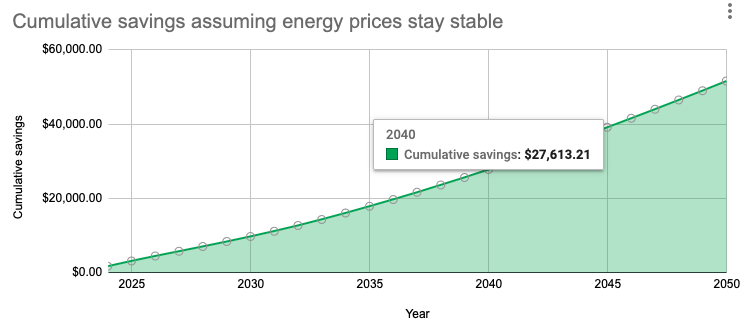
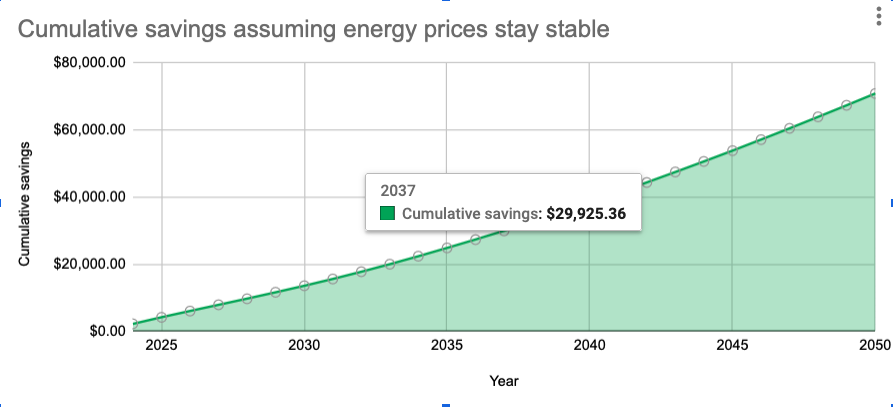
update blog post with all-electric heat rate

diff --git a/_posts/blog/2024-06-29-electrifying-our-old-oak-park-home-one-year-in.md b/_posts/blog/2024-06-29-electrifying-our-old-oak-park-home-one-year-in.md
@@ -17,18 +17,22 @@ featured: false
 
 _This is Part 4 of my series Electrifying Our Old Oak Park Home. [Read the rest here](/electrification/)._
 
+**Update - April 2025:** About a year after writing this, I learned about ComEd's [all-electric heat distribution rates](https://opcan.org/updates/comed-now-offers-50-rates-if-you-have-electric-heating), which lower our electricity bills by about 50%. With this factored in, our payback period is now between 10 and 13 years, or 1-3 years sooner!
+
+<hr />
+
 A little over a year ago in April of 2023, we completed the electrification of our house. Since then, I’ve received a lot of interest in this project, was awarded a [Green Award by the Village of Oak Park](https://www.oak-park.us/news/2023-community-awards-celebrate-stewardship), and was even [featured in the Chicago Tribune](https://www.chicagotribune.com/2024/01/31/concerned-about-climate-change-more-chicagoans-are-buying-all-electric-home-heating-systems/)!
 
 While the blog posts I’ve written have been useful to reference and point people to, there’s one outstanding question still to address: How much money are these electrification changes saving us, and how long until the upgrades pay for themselves?
 
 Now that we’ve had a full year of using these systems, I have enough information to answer that question.
 
-The short answer is: **we are saving about $1,600 / year in utilities**. Depending on where energy prices go in the next 20 years, we’ll **recoup this cost between 11 and 16 years**. Let’s dive into how I calculated that.
+The short answer is: **we are saving about $2,200 / year in utilities**. Depending on where energy prices go in the next 20 years, we’ll **recoup this cost between 10 and 13 years**. Let’s dive into how I calculated that.
 
 **Table of contents**
 
 <ul>
-   <li><a href="#1-600-in-utility-savings">$1,600 in utility savings for our first year</a></li>
+   <li><a href="#1-600-in-utility-savings">$2,200 in utility savings for our first year</a></li>
    <li><a href="#calculating-the-payback-period">Calculating the payback period</a></li>
    <li><a href="#scenario-1-assume-energy-prices-stay-stable">Scenario 1: Assume energy prices stay stable</a></li>
    <li><a href="#scenario-2-assume-natural-gas-prices-increase">Scenario 2: Assume natural gas prices increase</a></li>
@@ -38,9 +42,11 @@ The short answer is: **we are saving about $1,600 / year in utilities**. Dependi
    <li><a href="#questions-ask-a-climate-coach">Questions? Ask a Climate Coach!</a></li>
 </ul>
 
-<h2 id="1-600-in-utility-savings">$1,600 in utility savings for our first year</h2>
+<h2 id="2-200-in-utility-savings">$2,200 in utility savings for our first year</h2>
 
 I calculated the utility savings based on the costs of our electricity and natural gas usage of the year before we started this process (July 2021 – June 2022), compared to the costs we have paid since complete electrification (July 2023 – June 2024). 
+
+In 2025, we switched to ComEd's [all-electric heat distribution rates](https://opcan.org/updates/comed-now-offers-50-rates-if-you-have-electric-heating), which lower our electricity bills by about 50%.
 
 Here’s a breakdown of those costs:
 
@@ -52,17 +58,20 @@ Here’s a breakdown of those costs:
    </td>
    <td><p style="text-align: right"><strong>July 2023 - June 2024 (fully electric)</strong></p>
    </td>
+   <td><p style="text-align: right"><strong>July 2023 - June 2024 (all-electric heat rate)</strong></p>
+   </td>
   </tr>
   <tr>
    <td>Electricity
    </td>
    <td><p style="text-align: right">
 $948.05</p>
-
    </td>
    <td><p style="text-align: right">
 $820.09</p>
-
+   </td>
+   <td><p style="text-align: right">
+$395.57</p>
    </td>
   </tr>
   <tr>
@@ -70,11 +79,12 @@ $820.09</p>
    </td>
    <td><p style="text-align: right">
 $569.19</p>
-
    </td>
    <td><p style="text-align: right">
 $260.77</p>
-
+   </td>
+   <td><p style="text-align: right">
+$125.78</p>
    </td>
   </tr>
   <tr>
@@ -82,11 +92,12 @@ $260.77</p>
    </td>
    <td><p style="text-align: right">
 $1,178.98</p>
-
    </td>
    <td><p style="text-align: right">
 $0.00</p>
-
+   </td>
+   <td><p style="text-align: right">
+$0.00</p>
    </td>
   </tr>
   <tr>
@@ -94,17 +105,18 @@ $0.00</p>
    </td>
    <td><p style="text-align: right">
 <strong>$2,696.22</strong></p>
-
    </td>
    <td><p style="text-align: right">
 <strong>$1,080.86</strong></p>
-
+   </td>
+   <td><p style="text-align: right">
+<strong>$521.35</strong></p>
    </td>
   </tr>
 </table>
 
 
-We saved $1,615.36 in utilities between these two time periods. Not bad! 
+We saved $1,615.36 in utilities between these two time periods. Not bad! With the all-electric heat rate, we are saving $2,174.87. Even better!
 
 What’s especially great is that our natural gas bill is now zero, which is where our main savings is. But it's also worth noting that our electricity bill is lower than it was before thanks to our solar panels, but not much lower because our electricity usage has increased — we’re using electricity now for heating, hot water, cooking, clothes drying and car charging (all previously powered by natural gas or gasoline).
 
@@ -128,9 +140,9 @@ The [US Energy Information Agency](https://en.wikipedia.org/wiki/Energy_Informat
 <p><img class='img-responsive' src='/images/blog/one-year-in/eia-energy-projection.png' alt='US EIA Annual Energy Outlook shows relatively stable energy prices thru 2050'></p>
 <p class="text-center"><em>US EIA Annual Energy Outlook for Electricity (nom cents/kWh) vs Gas price at Henry Hub (nom $/MMBtu)</em></p>
 
-Using the change in these numbers I can calculate what we would spend on our all electric home vs what my bills would have been with no change (a mix of both gas and electric) and sum up the savings between the two.
+Using the change in these numbers I can calculate what we would spend on our all electric home (with the lower all-electric heating rate) vs what my bills would have been with no change (a mix of both gas and electric) and sum up the savings between the two.
 
-Based on this projection, we’ll get our money back some time in **2040 (16 years)** and continue to make money after that:
+Based on this projection, we’ll get our money back some time in **2037 (13 years)** and continue to make money after that:
 
 <p><img class='img-responsive' src='/images/blog/one-year-in/scenario-1-savings.png' alt='Cumulative savings per year assuming stable energy prices'></p>
 <p class="text-center"><em>Cumulative savings per year assuming stable energy prices</em></p>
@@ -144,7 +156,7 @@ In this report, which is bullish on a rapid clean energy transition, they predic
 <p><img class='img-responsive' src='/images/blog/one-year-in/bdc-future-of-gas-il.png' alt='One of the many scenarios for natural gas prices from the Future of Gas in Illinois report'></p>
 <p class="text-center"><em>One of the many scenarios for natural gas prices from the Future of Gas in Illinois report</em></p>
 
-Using this scenario, with EIA’s electricity price projections, our savings increases much faster and we make our money back by **2035 (11 years)** and continue to make a lot more money after that:
+Using this scenario, with EIA’s electricity price projections, our savings increases much faster and we make our money back by **2034 (10 years)** and continue to make a lot more money after that:
 
 <p><img class='img-responsive' src='/images/blog/one-year-in/scenario-2-savings.png' alt='Cumulative savings per year assuming increasing natural gas prices'></p>
 <p class="text-center"><em>Cumulative savings per year assuming increasing natural gas prices</em></p>
@@ -188,6 +200,8 @@ Even with our 8.7 KW rooftop solar, our electricity needs are more than we produ
 * **Electrification also increases your home value.** It should also be noted that electrification improvements increase the value of our home, just like remodeling your kitchen or bathroom. That would mean, if we were to sell our home, we could get a higher price for it, potentially recouping most or all of these expenses. It could also mean that the assessed value of our home could go up, which would increase our property taxes in future years.
 
 * **Make sure to inspect and service your equipment annually**: This is advice that is good for anyone with a home, but it is worth noting that heat pumps are more complex than gas furnaces. Seriously, they have microchips in them. We’ve had a few service calls since installing to replace a broken temperature controller and address some fan rattling. Staying proactive is a great way to extend the life of your equipment.
+
+* **ComEd's all-electric heat rate is a huge boon**: In 2025, we switched to ComEd's [all-electric heat distribution rates](https://opcan.org/updates/comed-now-offers-50-rates-if-you-have-electric-heating), which lower our electricity bills by about 50%. As of this writing, this is not something they advertise, but anyone with all-electric heat can request it, which I highly recommend you do.
 
 * **Net metering for solar is amazing, BUT it is changing in IL in 2025**: Net metering is what we use to bank extra solar credits in the summer for use in winter. In Illinois, we have a very favorable program — each unit of electricity you ‘sell’ to ComEd is ‘purchased’ back at the same price. Other states like Arizona and Florida pay you less and charge you more for your electricity. [In 2025, the terms of Net Metering will change in Illinois](https://www.citizensutilityboard.org/blog/2024/05/14/cub-qa-whats-happening-to-solar-power-in-illinois-in-2025/), though the terms will still likely be very favorable.
 
